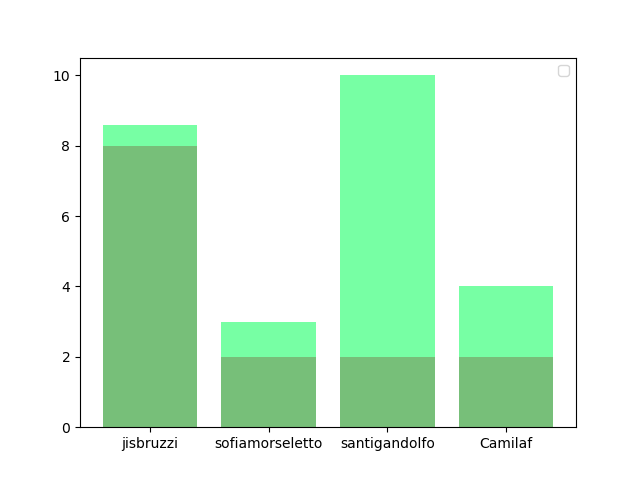
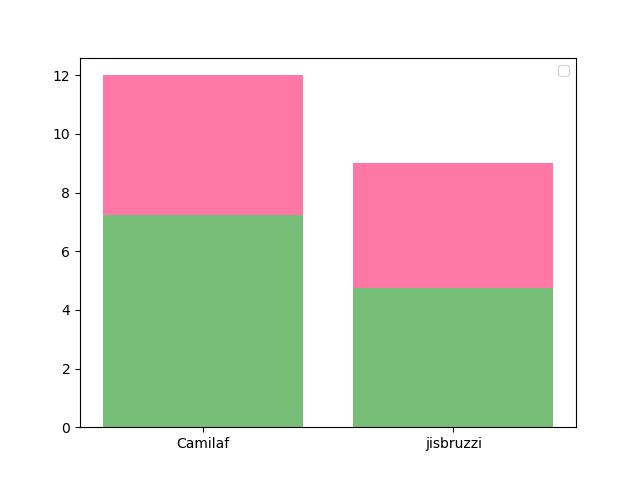
Mejoro HU20

diff --git a/scrap-horas/visu-horas.py b/scrap-horas/visu-horas.py
@@ -11,7 +11,7 @@ for issue in full_explanations:
     explanations[issue]={}
     efforts=explanations[issue]
     for effort in full_explanations[issue]:
-        if effort["date"]<'2018-10-02T00:00:00Z':
+        if effort["date"]<'2018-10-16T00:00:00Z':
             continue
         print("===========")
         print(issue)
@@ -219,7 +219,7 @@ def mostrar_lista():
 #mostrar_puntos(False,True)
 #mostrar_puntos(True,False)
 #mostrar_puntos(True,True)
-#mostrar_columnas_personas()
+mostrar_columnas_personas()
 mostrar_columnas_repo()
 ##mostrar_columnas_repo()
 

diff --git a/HU20-archivo-estudiantes.md b/HU20-archivo-estudiantes.md
@@ -14,8 +14,28 @@ El usuario ingresa un archivo CSV con los siguientes campos:
 - Si el usuario sube un archivo que no obedece el formato que le corresponde, el sistema informará la línea del archivo que genera tal error.
 - Si el administrador sube un archivo que incluye una clave que ya existe (padrón), se actualizará el registro correspondiente de la base de datos.
 
-## Criterios de acpetación pendientes de definición
-- Cantidad de registros máxima soportada en un archivo
+## Criterios de aceptación adicionales (22/10)
+- Dado que el registro de un estudiante se encuentra en el archivo csv subido, que este estudiante no está en el sistema y que la entrada correspondiente del archivo figura vacía, este estudiante no será dado de alta al sistema.
+- El número máximo de líneas que puede tener un archivo csv subido es de 10.000. Se soporta la subida de archivos mayores, sin embargo no se garantiza el éxito de la transacción.
+- Cuando una o más lineas tienen un error de los enumerados abajo, se mostrará un mensaje con todas las líneas con error del archivo, reportando el número de línea y el error correspondiente. Los errores que se detectan son:
+    - Cada línea debería tener 7 campos
+    - El padrón no puede estar vacío
+    - El padrón debe tener 5 o 6 caracteres
+    - El padrón tiene únicamente caracteres numéricos
+    - La contraseña debe tener menos de 30 caracteres
+    - El nombre no puede estar vacío
+    - El apellido no puede estar vacío
+    - La prioridad no puede estar vacía
+    - El campo 'prioridad' tiene únicamente caracteres numéricos, debe ser un entero.
+    - El campo 'prioridad' debe ser un entero entre 1 y 300
+    - El email no puede estar vacío
+    - El email debe tener menos de 100 caracteres
+    - El email suministrado no parece ser un email
+    - El dominio del mail suministrado no parece serlo
+    - La lista de carreras no puede estar vacía
+    - XX no es un número. La lista de carreras debe ser una lista de números enteros separados por guiones, sin espacios.
+    - XX No es un identificador de carrera
+- El máximo número de estudiantes que puede almacenar la base de datos es 15.000
 
 ## Prototipos
 ![](./prototipos/administrador-v2/importar_estudiantes.png)

diff --git a/README.md b/README.md
@@ -25,6 +25,6 @@
  - [HU23: Como alumno quiero recibir una notificación cuando el reloj de mi dispositivo marca que faltan 48 horas para que comience un examen al que me inscribí.](HU23-notificación-local)
  - [HU24: Como alumno recibir notificaciones enviadas por el servidor](HU24-notificación-firebase)
  - [HU25: Como alumno recibir notificaciones enviadas por el servidor cuando falta 48 horas para que comience un examen al que me inscribí](HU25-notificación-examen-firebase)
- - [HU26: Como alumno recibir notificaciones enviadas por el servidor cuando se cancela un examen](HU24-notificación-cancelacion-firebase)
- - [HU26: Como alumno recibir notificaciones enviadas por el servidor cuando se modifica un examen](HU24-notificación-modificacion-firebase)
+ - [HU26: Como alumno recibir notificaciones enviadas por el servidor cuando se cancela un examen](HU26-notificación-cancelacion-firebase)
+ - [HU26: Como alumno recibir notificaciones enviadas por el servidor cuando se modifica un examen](HU27-notificacion-modificacion-firebase)
 
